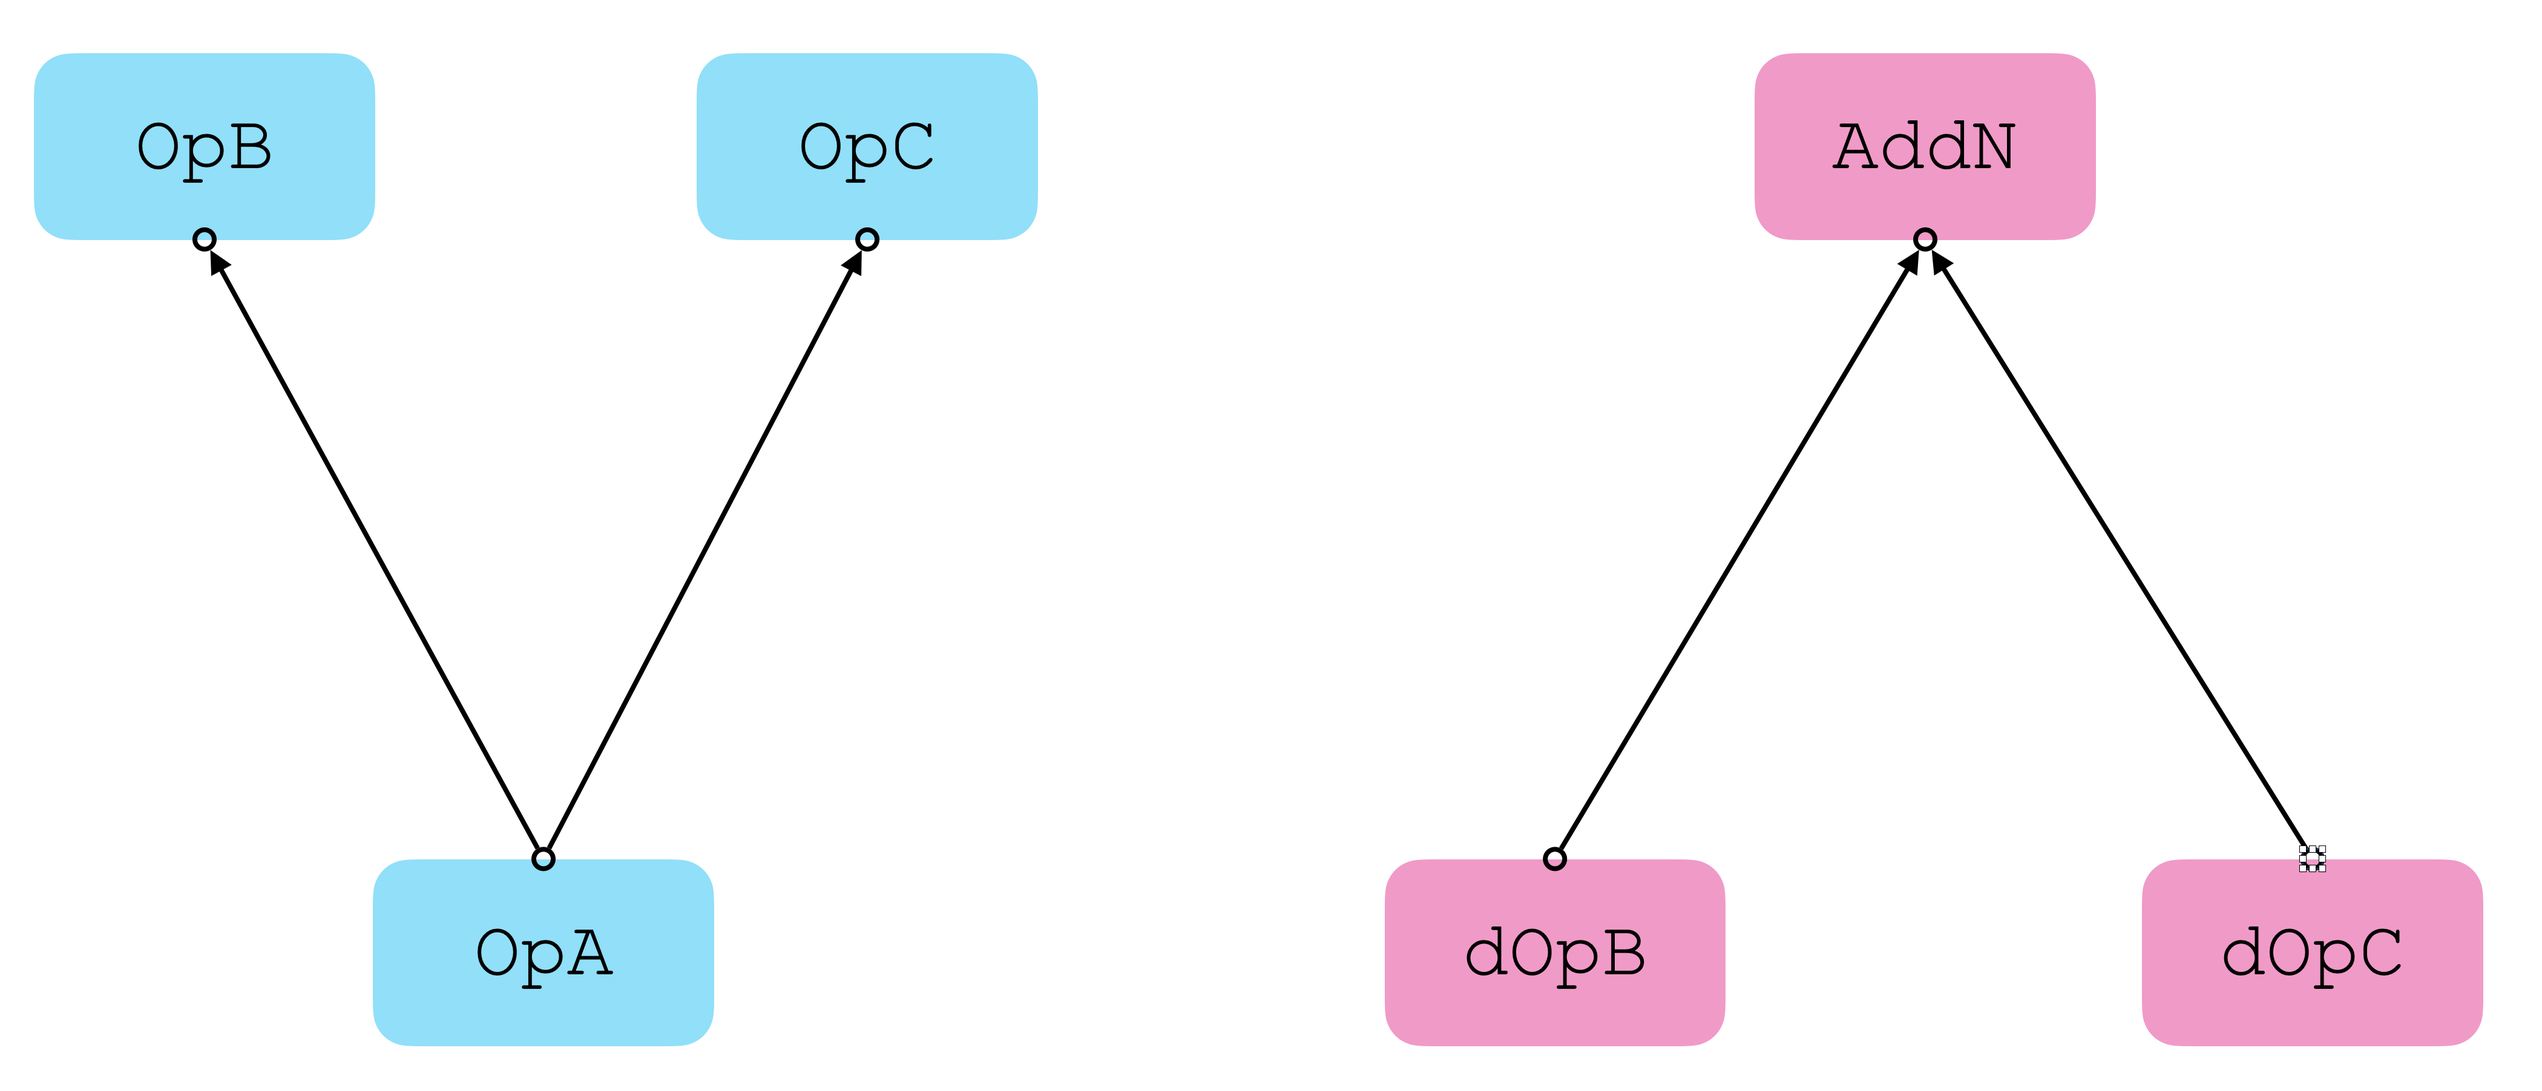
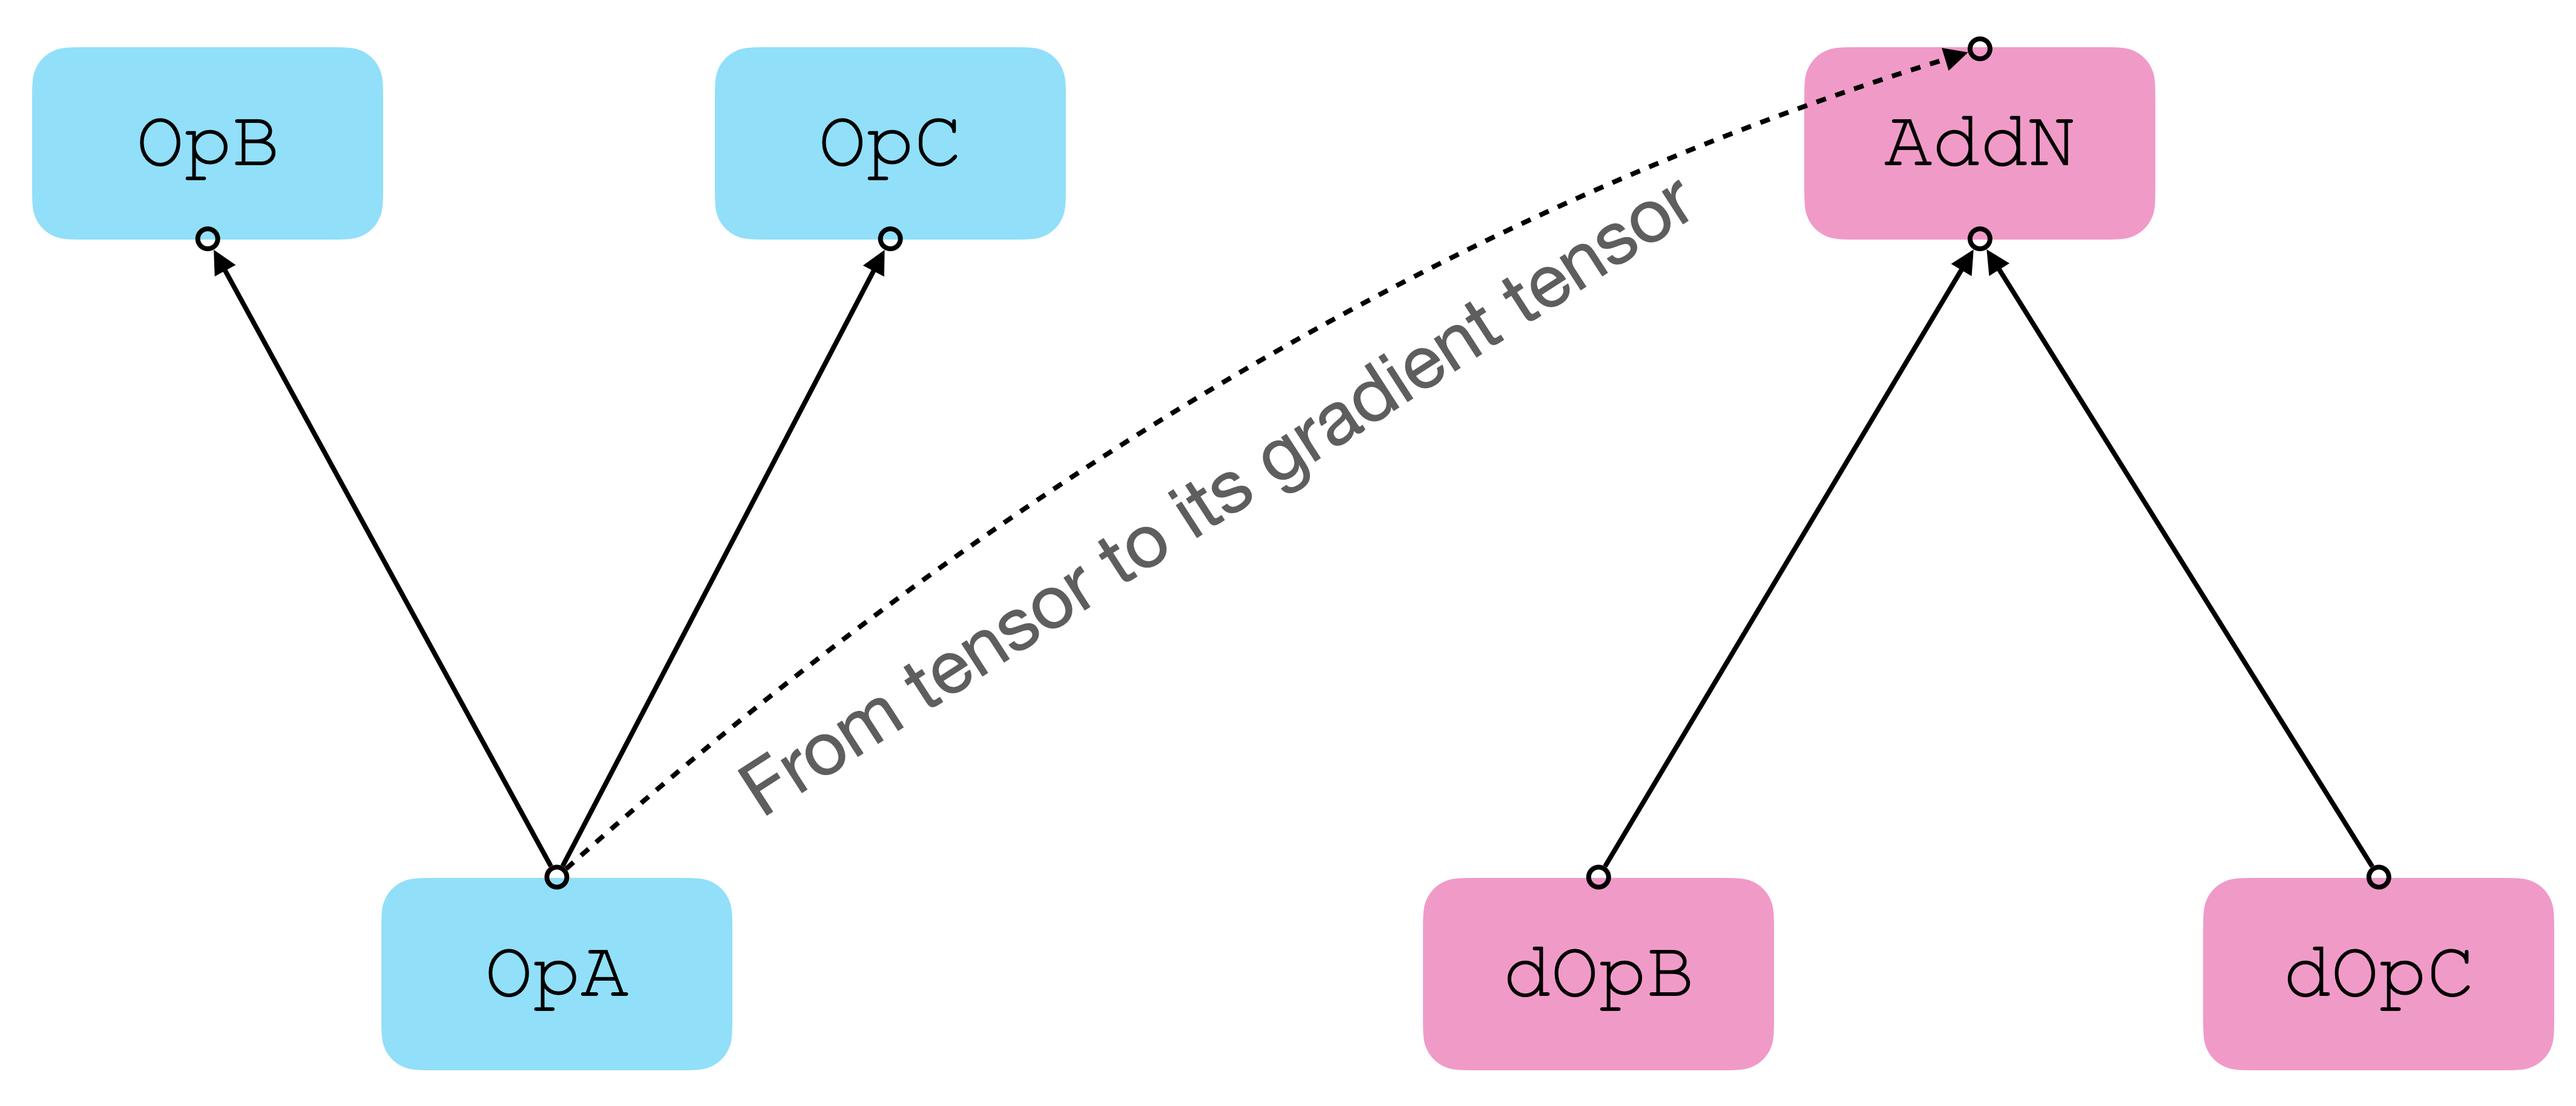
updated README

diff --git a/operation.py b/operation.py
@@ -315,7 +315,7 @@ def backprop(y_tensors, x_tensors, dy_tensors=None):
         grad_tensors.append(
             OnesLike(
                 input_list=[out_tensor],
-                graph=y_tensors[0]._graph,
+                graph=y_tensors[0].op._graph,
             ).output(0),
         )
       else:

diff --git a/README.md b/README.md
@@ -40,7 +40,7 @@ To "carry out the computation" simply means to execute a specific Op in the grap
   <img src="g3doc/files/fig1.png" width="600">
   <br>
   <br>
-  Example of a computational graph.
+  Example of a computational graph. Colored (blue) rectangles represent Ops, small black circles underneath and above Ops are input and output tensors, respectively.
 </p>
 
 ### Runtime
@@ -49,7 +49,7 @@ As we just showed, the execution of an Op requires the concrete values (numpy ar
 
 ### Backpropagation
 
-For an Op that has `m` inputs and generates `n` outputs, it is expected to receive `n` gradient Tensors from its downstream Ops. A `_grad_func` is defined for each Op that takes the `m` input and `n` gradient Tensors (or a subset of them), and adds additional Ops to the graph that computes the gradient tensors. For example, in the following digram, the blue circle on the left represents a single Op with `m` inputs and `n` outputs, and the pink circle on the right represent a "subgraph": containing potentially multiple Ops that eventually leads to gradient tensor with respect to each of the `m` input tensors.
+For an Op that has `m` inputs and generates `n` outputs, it is expected to receive `n` gradient Tensors from its downstream Ops. A `_grad_func` is defined for each Op that takes the `m` input and `n` gradient Tensors (or a subset of them), and adds additional Ops to the graph that computes the gradient tensors. For example, in the following digram, the blue rectangle on the left represents a single Op with `m` inputs and `n` outputs, and the pink rectangle on the right represent a "subgraph": containing potentially multiple Ops that eventually leads to gradient tensor with respect to each of the `m` input tensors.
 
 <p align="center">
   <img src="g3doc/files/fig2.png" width="600">
@@ -64,10 +64,10 @@ If a Tensor is consumed by more than one downstream Op, a gradient tensor will b
   <img src="g3doc/files/fig4.png" width="600">
   <br>
   <br>
-  Add up backpropped gradient tensors to compute the full gradient
+  Tensor "OpA:0" expects two backpropped gradient tensors ("dOpB:0" and "dOpC:0"). The full gradient will be the sum of them.
 </p>
 
-The following is an example of computing gradients (and gradients or gradients) of a graph. First, the three blue circles represent the graph of three Ops, which simply computes the dot product of two tensors `A` and `B` of shape `[2, 3]` and `[3, 5]`, respectively. Second, the two pink circles represent the graph with additional Ops, computing the gradient of `C` with respect to `A`, i.e. `Grad(C, A)`. Finally, we further add two Ops (yellow) to compute the gradient of `Grad(C, A)` withe respect to `B`, i.e. `Grad(Grad(C, A), B)`.
+The following is an example of computing gradients (and gradients or gradients) of a graph. First, the three blue rectangles represent the graph of three Ops, which simply computes the dot product of two tensors `A` and `B` of shape `[2, 3]` and `[3, 5]`, respectively. Second, the two pink rectangles represent the graph with additional Ops, computing the gradient of `C` with respect to `A`, i.e. `Grad(C, A)`. Finally, we further add two Ops (yellow) to compute the gradient of `Grad(C, A)` withe respect to `B`, i.e. `Grad(Grad(C, A), B)`.
 
 <p align="center">
   <img src="g3doc/files/fig3.png" width="600">
@@ -190,15 +190,15 @@ To backprop gradient from a tensor `t` to any other tensor `s`, where there is "
 
 ```python
 # `grads` is a list holding a Tensor of the same shape as `s`
-grads = t.backprop(x_tensors=[s])
+grads = ag.backprop(y_tensors=[t], x_tensors=[s])
 ```
 The gradient defaults to a tensor of the same shape as `t` and filled with ones.
 
-You can also provide specific values of the the backpropped gradient by calling
+You can also provide specific values of the the backpropped gradient by setting argument `dy_tensors`:
 
 ```python
 t_backward_value = ag.ones_like(t) # `t_backward_value` is the backpropped gradient
-grads = t.backprop(x_tensors=[s], dy_tensor=t_backward_value)
+grads = ag.backprop(y_tensors=[t], x_tensors=[s], dy_tensors=[t_backward_value])
 ```
 
 
@@ -217,11 +217,11 @@ c = ag.matmul(a, b)
 
 # Backprop gradient of `c` (defaults to ag.ones((2, 5))) to `a`
 # grads[0]: [<Tensor 'MatMul_1:0', shape=(2, 3)>]
-grads = c.backprop([a])
+grads = ag.backprop([c], [a])
 
 # Backprop gradient of `grads[0]` (defaults to ag.ones((2, 3))) to `b`
 # grads_grads: [<Tensor 'MatMul_4:0', shape=(3, 5)>]
-grads_grads = grads[0].backprop([b])
+grads_grads = ag.backprop([grads[0]], [b])
 
 runtime = ag.get_default_graph().runtime
 
@@ -233,6 +233,26 @@ print(runtime.get_tensor_value(grads_grads[0]))
 # array([[2., 2., 2., 2., 2.],
 #        [2., 2., 2., 2., 2.],
 #        [2., 2., 2., 2., 2.]], dtype=float32)
+```
+
+You can even backprop gradients from multiple `y_tensors` at the same time:
+
+```python
+# d.shape: (2, 5)
+d = ag.reduce_sum(c, axis=1)
+e = ag.reduce_prod(c, axis=0)
+
+# backprop from `d` and `e` back to `a` and `b`
+multi_y_grads = ag.backprop(y_tensors=[d, e], x_tensors=[a, b])
+
+print(runtime.get_tensor_value(multi_y_grads[0]))
+# array([[1070., 3445., 5820.],
+#        [ 350., 1150., 1950.]], dtype=float32)
+
+print(runtime.get_tensor_value(multi_y_grads[1]))
+# array([[ 78.,  87.,  96., 105., 114.],
+#        [175., 199., 223., 247., 271.],
+#        [272., 311., 350., 389., 428.]], dtype=float32)
 ```
 
 ## Examples
